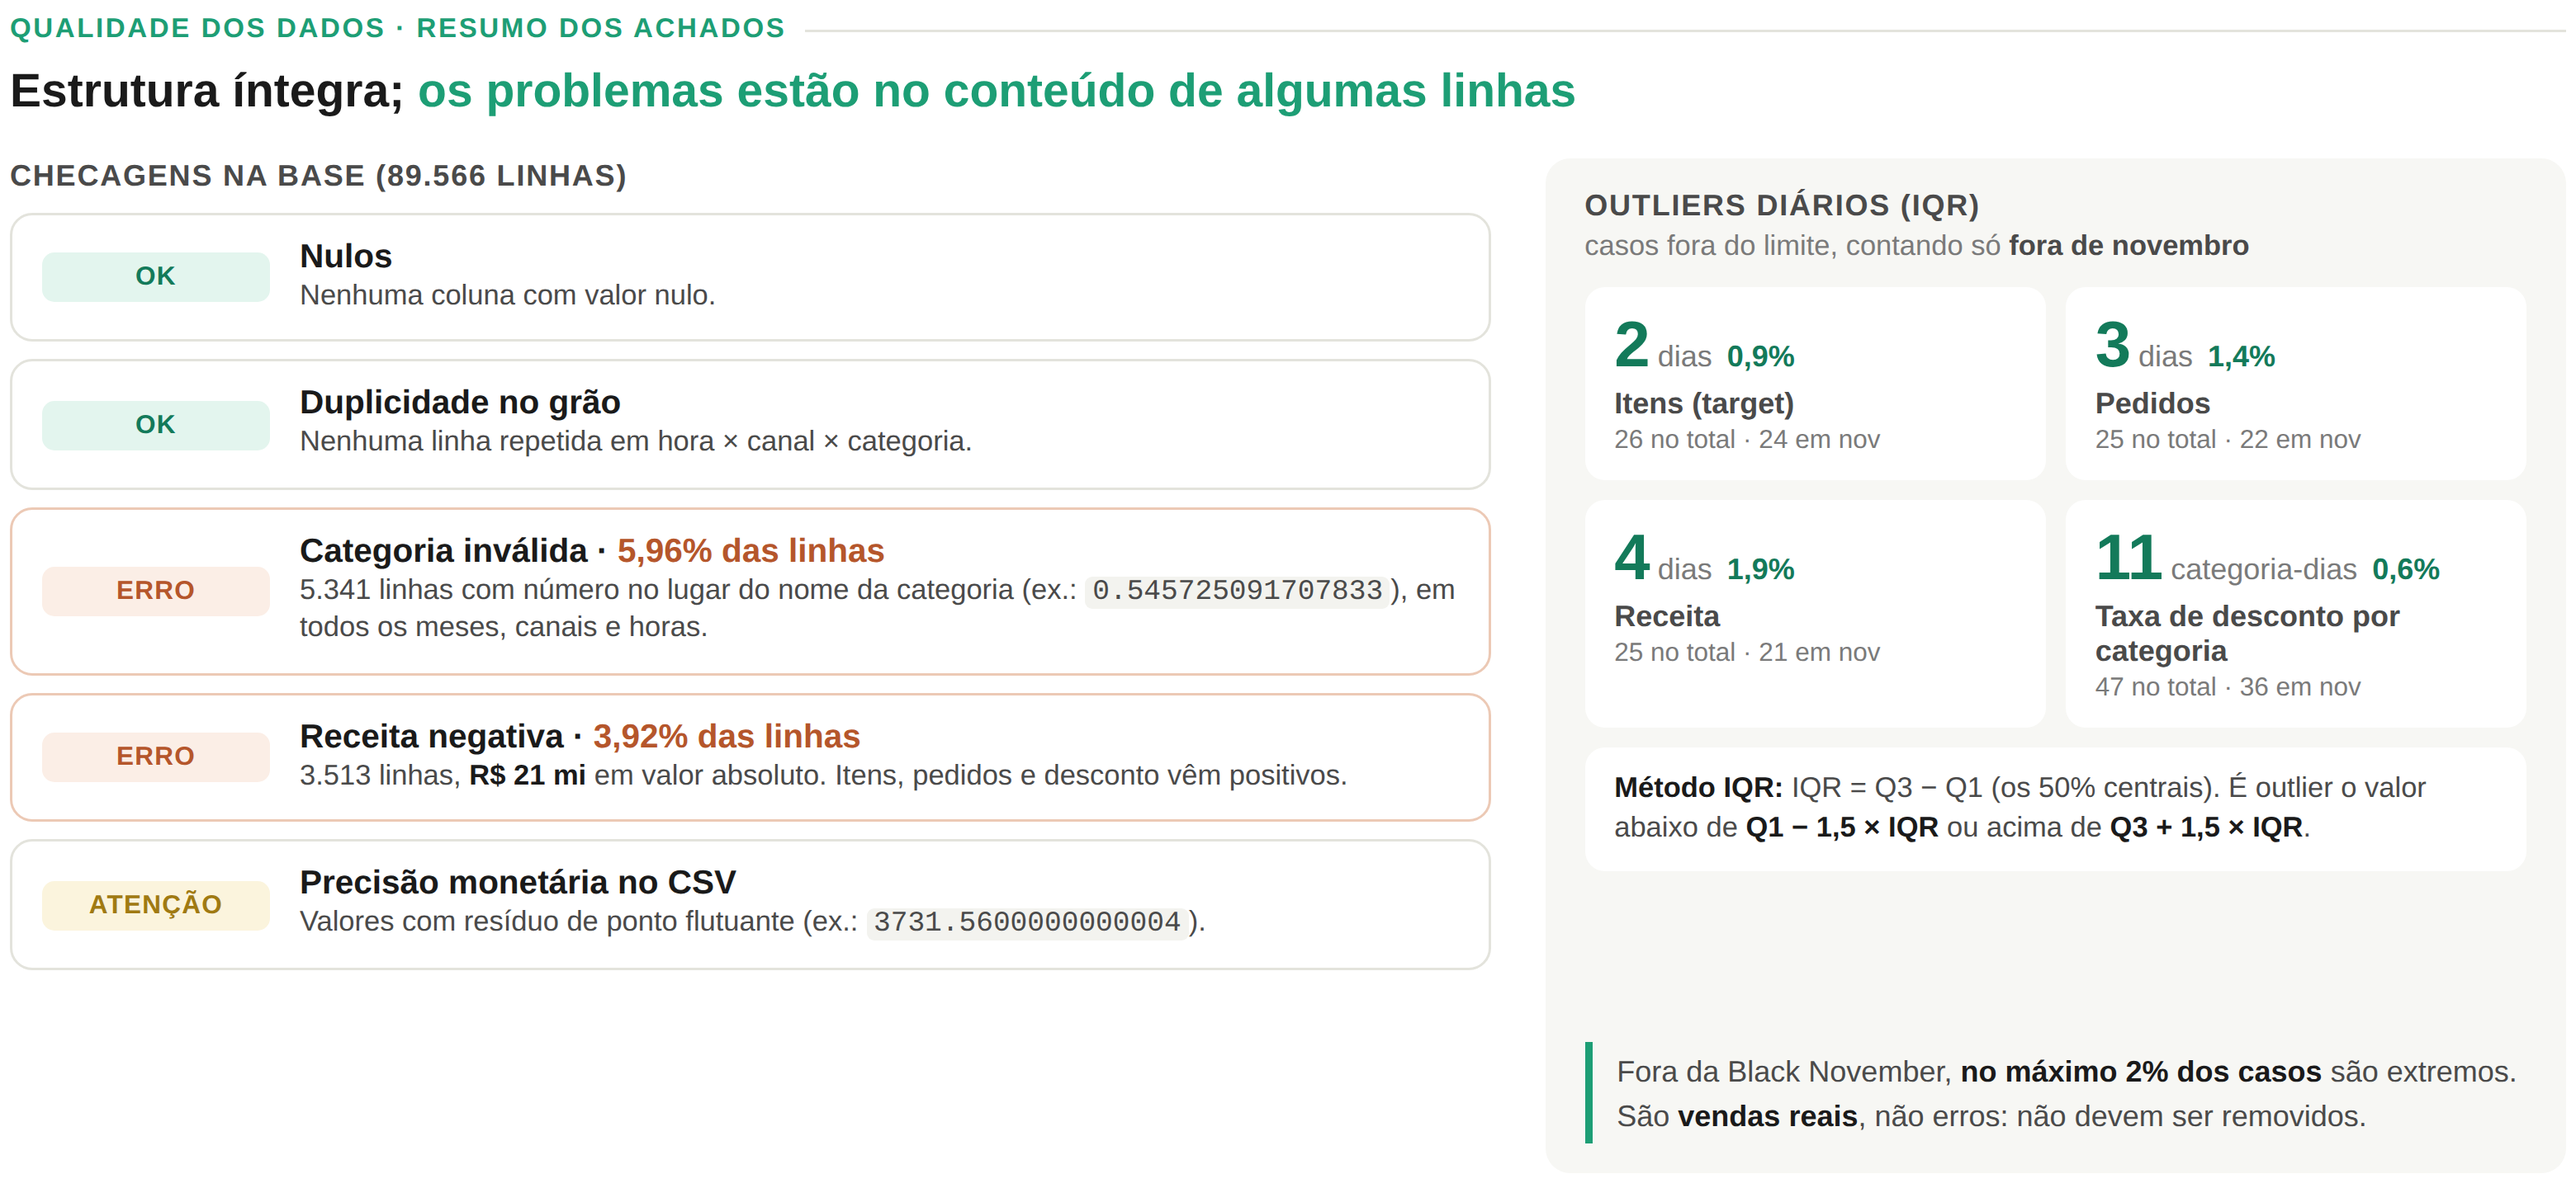
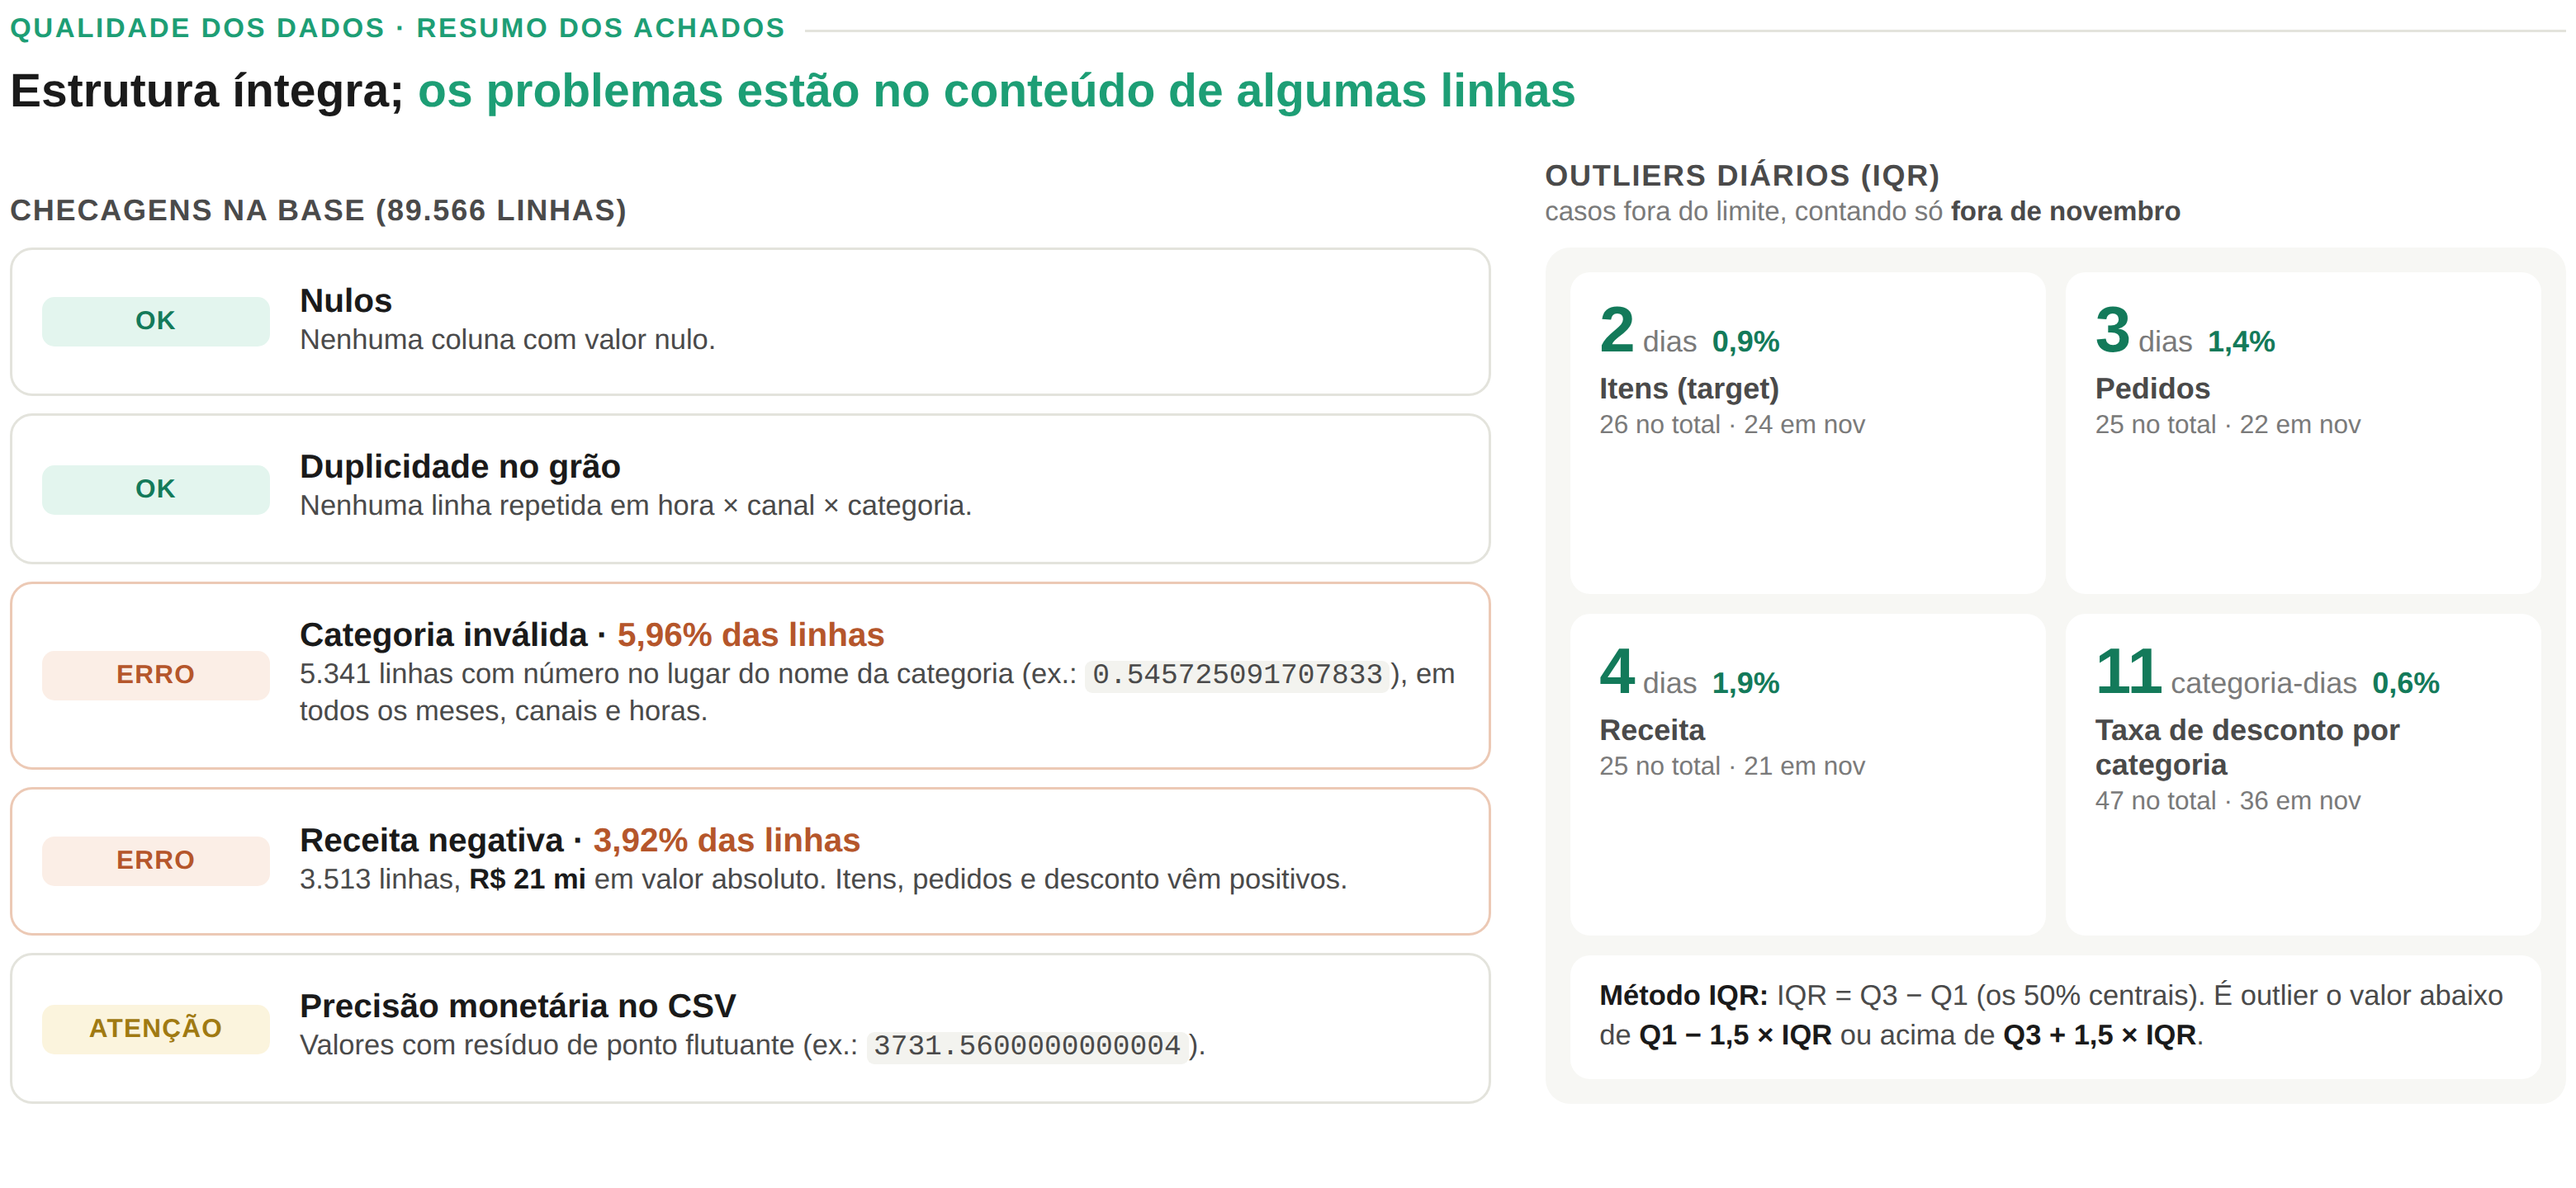
Widget de qualidade: remove leitura final e alinha blocos
Claude-Session: https://claude.ai/code/session_01NUJZKTcM8cs9QBTcUeuacF

diff --git a/apresentacao/widgets/07_qualidade_resumo.html b/apresentacao/widgets/07_qualidade_resumo.html
@@ -14,11 +14,13 @@
   .rotulo::after { content: ""; flex: 1; height: 1px; background: var(--linha); }
   h3 { font-size: 19px; line-height: 1.25; margin-bottom: 14px; }
   h3 span { color: var(--verde); }
-  .colunas { display: grid; grid-template-columns: 1.45fr 1fr; gap: 22px; flex: 1; }
-  .bloco-tit { font-size: 12px; font-weight: 700; color: var(--tinta-2); text-transform: uppercase; letter-spacing: .05em; margin-bottom: 8px; }
+  .colunas { display: grid; grid-template-columns: 1.45fr 1fr; grid-template-rows: auto auto; column-gap: 22px; row-gap: 0; }
+  .sub-t { display: block; font-size: 11px; font-weight: 400; text-transform: none; letter-spacing: 0; color: var(--tinta-3); margin-top: 2px; }
+  .sub-t b { color: var(--tinta-2); }
+  .bloco-tit { font-size: 12px; font-weight: 700; color: var(--tinta-2); text-transform: uppercase; letter-spacing: .05em; margin-bottom: 8px; align-self: end; }
 
   .checks { display: flex; flex-direction: column; gap: 7px; }
-  .check { display: grid; grid-template-columns: 92px 1fr; gap: 12px; align-items: center; border: 1px solid var(--linha); border-radius: 9px; padding: 9px 12px; }
+  .check { display: grid; grid-template-columns: 92px 1fr; gap: 12px; align-items: center; border: 1px solid var(--linha); border-radius: 9px; padding: 13px 12px; }
   .selo { font-size: 10.5px; font-weight: 700; text-transform: uppercase; letter-spacing: .04em; text-align: center; border-radius: 5px; padding: 4px 0; }
   .ok .selo { background: var(--verde-claro); color: var(--verde-escuro); }
   .erro .selo { background: var(--laranja-claro); color: var(--laranja); }
@@ -30,9 +32,10 @@
   .check p b { color: var(--tinta); }
   code { font-family: "Courier New", monospace; font-size: 11.5px; background: #f3f3ef; padding: 0 3px; border-radius: 3px; }
 
-  .out { background: #f7f7f4; border-radius: 10px; padding: 12px 16px; display: flex; flex-direction: column; }
+  .out { background: #f7f7f4; border-radius: 10px; padding: 10px; display: flex; flex-direction: column; gap: 8px; }
+  .out .tiles { flex: 1; } .out .extra { margin-top: 0; }
   .out .sub { font-size: 11.5px; color: var(--tinta-3); margin: -4px 0 10px; }
-  .tiles { display: grid; grid-template-columns: 1fr 1fr; gap: 8px; }
+  .tiles { display: grid; grid-template-columns: 1fr 1fr; grid-auto-rows: 1fr; gap: 8px; }
   .tile { background: #fff; border-radius: 8px; padding: 10px 12px; }
   .tile .v { font-size: 26px; font-weight: 700; color: var(--tinta); line-height: 1; }
   .tile .v small { font-size: 12px; font-weight: 400; color: var(--tinta-3); margin-left: 3px; }
@@ -46,8 +49,6 @@
   .tile .p { font-size: 12px; font-weight: 700; color: var(--verde-escuro); margin-left: 6px; }
   .tile .d { font-size: 10.5px; color: var(--tinta-2); margin-top: 3px; }
   .out .sub b { color: var(--tinta-2); }
-  .leitura { margin-top: auto; border-left: 3px solid var(--verde); padding: 4px 0 2px 10px; font-size: 12px; line-height: 1.45; color: var(--tinta-2); }
-  .leitura b { color: var(--tinta); }
 </style>
 </head>
 <body>
@@ -55,19 +56,16 @@
   <div class="rotulo">Qualidade dos dados · resumo dos achados</div>
   <h3>Estrutura íntegra; <span>os problemas estão no conteúdo de algumas linhas</span></h3>
   <div class="colunas">
-    <div>
-      <div class="bloco-tit">Checagens na base (89.566 linhas)</div>
-      <div class="checks">
+    <div class="bloco-tit">Checagens na base (89.566 linhas)</div>
+    <div class="bloco-tit">Outliers diários (IQR) <span class="sub-t">casos fora do limite, contando só <b>fora de novembro</b></span></div>
+    <div class="checks">
         <div class="check ok"><span class="selo">OK</span><div><h4>Nulos</h4><p>Nenhuma coluna com valor nulo.</p></div></div>
         <div class="check ok"><span class="selo">OK</span><div><h4>Duplicidade no grão</h4><p>Nenhuma linha repetida em hora × canal × categoria.</p></div></div>
         <div class="check erro"><span class="selo">Erro</span><div><h4>Categoria inválida · <span class="num">5,96% das linhas</span></h4><p>5.341 linhas com número no lugar do nome da categoria (ex.: <code>0.545725091707833</code>), em todos os meses, canais e horas.</p></div></div>
         <div class="check erro"><span class="selo">Erro</span><div><h4>Receita negativa · <span class="num">3,92% das linhas</span></h4><p>3.513 linhas, <b>R$ 21 mi</b> em valor absoluto. Itens, pedidos e desconto vêm positivos.</p></div></div>
         <div class="check leve"><span class="selo">Atenção</span><div><h4>Precisão monetária no CSV</h4><p>Valores com resíduo de ponto flutuante (ex.: <code>3731.5600000000004</code>).</p></div></div>
-      </div>
     </div>
     <div class="out">
-      <div class="bloco-tit">Outliers diários (IQR)</div>
-      <div class="sub">casos fora do limite, contando só <b>fora de novembro</b></div>
       <div class="tiles">
         <div class="tile"><div class="v">2<small>dias</small><span class="p">0,9%</span></div><div class="n">Itens (target)</div><div class="m">26 no total · 24 em nov</div></div>
         <div class="tile"><div class="v">3<small>dias</small><span class="p">1,4%</span></div><div class="n">Pedidos</div><div class="m">25 no total · 22 em nov</div></div>
@@ -75,7 +73,6 @@
         <div class="tile"><div class="v">11<small>categoria-dias</small><span class="p">0,6%</span></div><div class="n">Taxa de desconto por categoria</div><div class="m">47 no total · 36 em nov</div></div>
       </div>
       <div class="extra"><b>Método IQR:</b> IQR = Q3 − Q1 (os 50% centrais). É outlier o valor abaixo de <b>Q1 − 1,5 × IQR</b> ou acima de <b>Q3 + 1,5 × IQR</b>.</div>
-      <div class="leitura">Fora da Black November, <b>no máximo 2% dos casos</b> são extremos. São <b>vendas reais</b>, não erros: não devem ser removidos.</div>
     </div>
   </div>
 </div>
